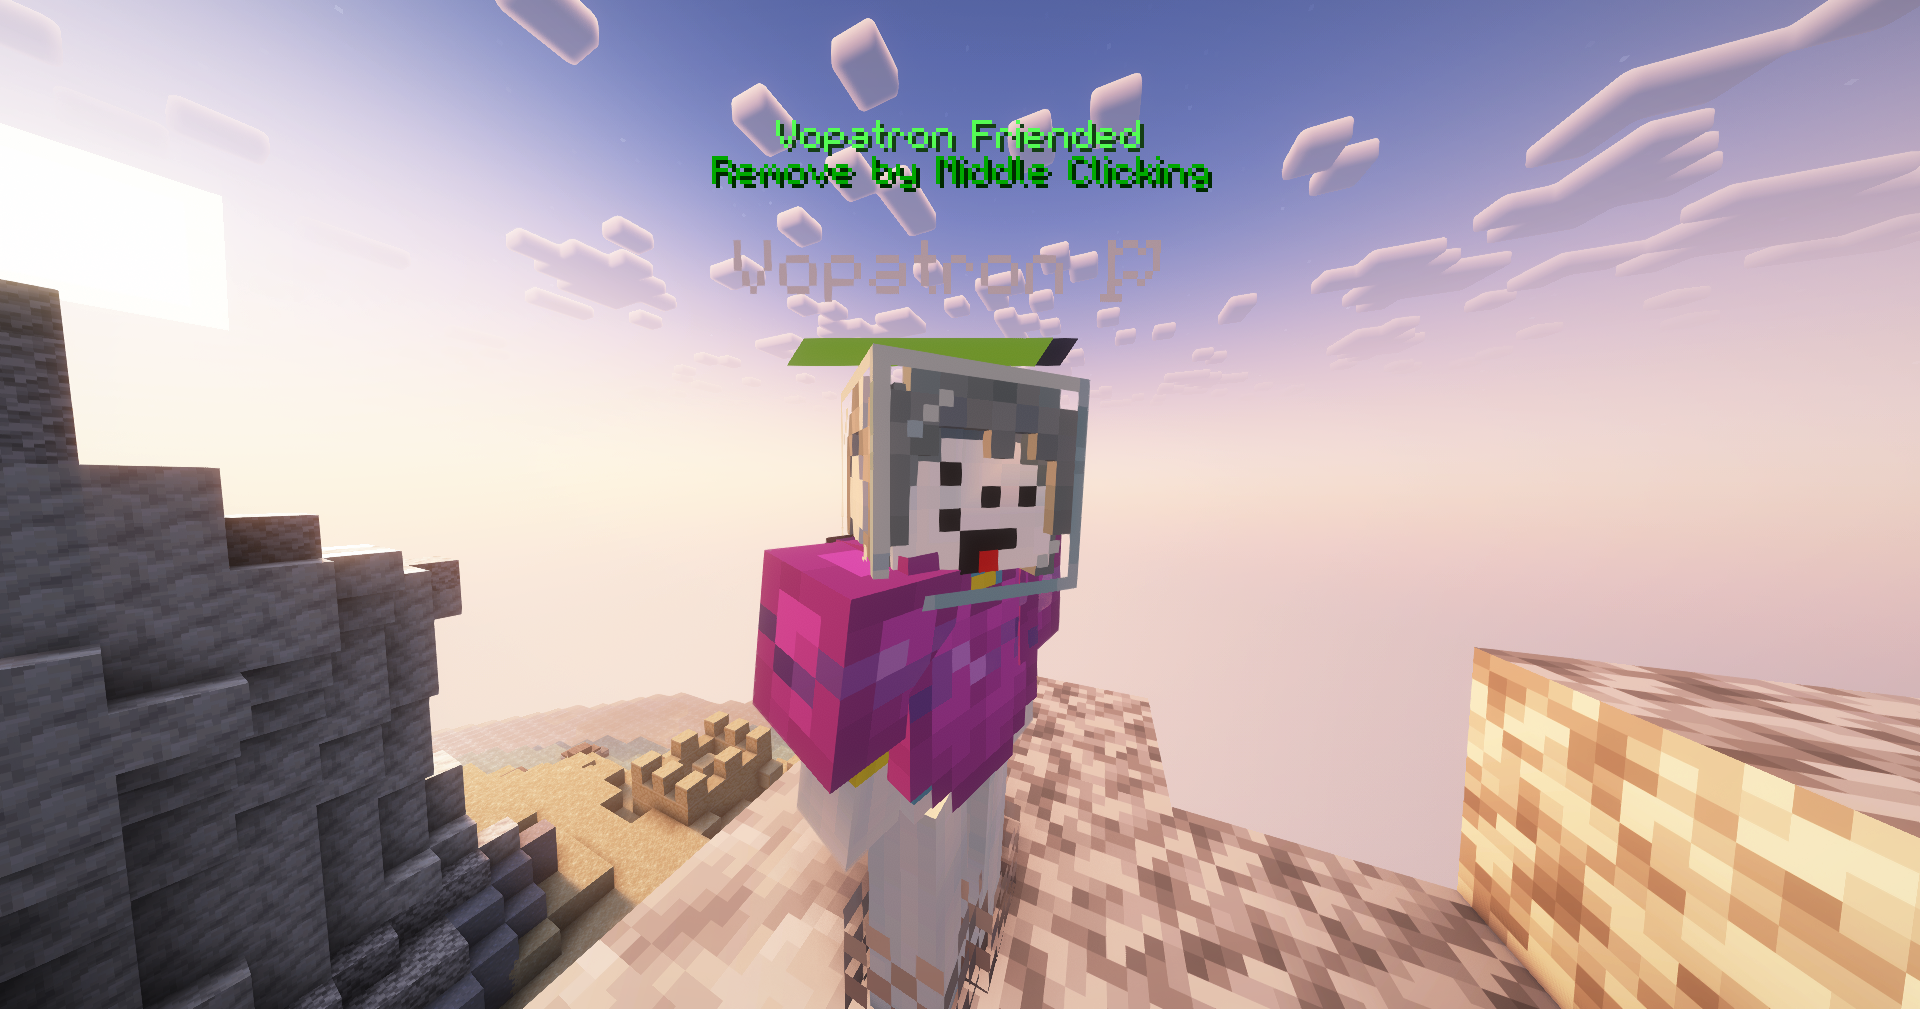
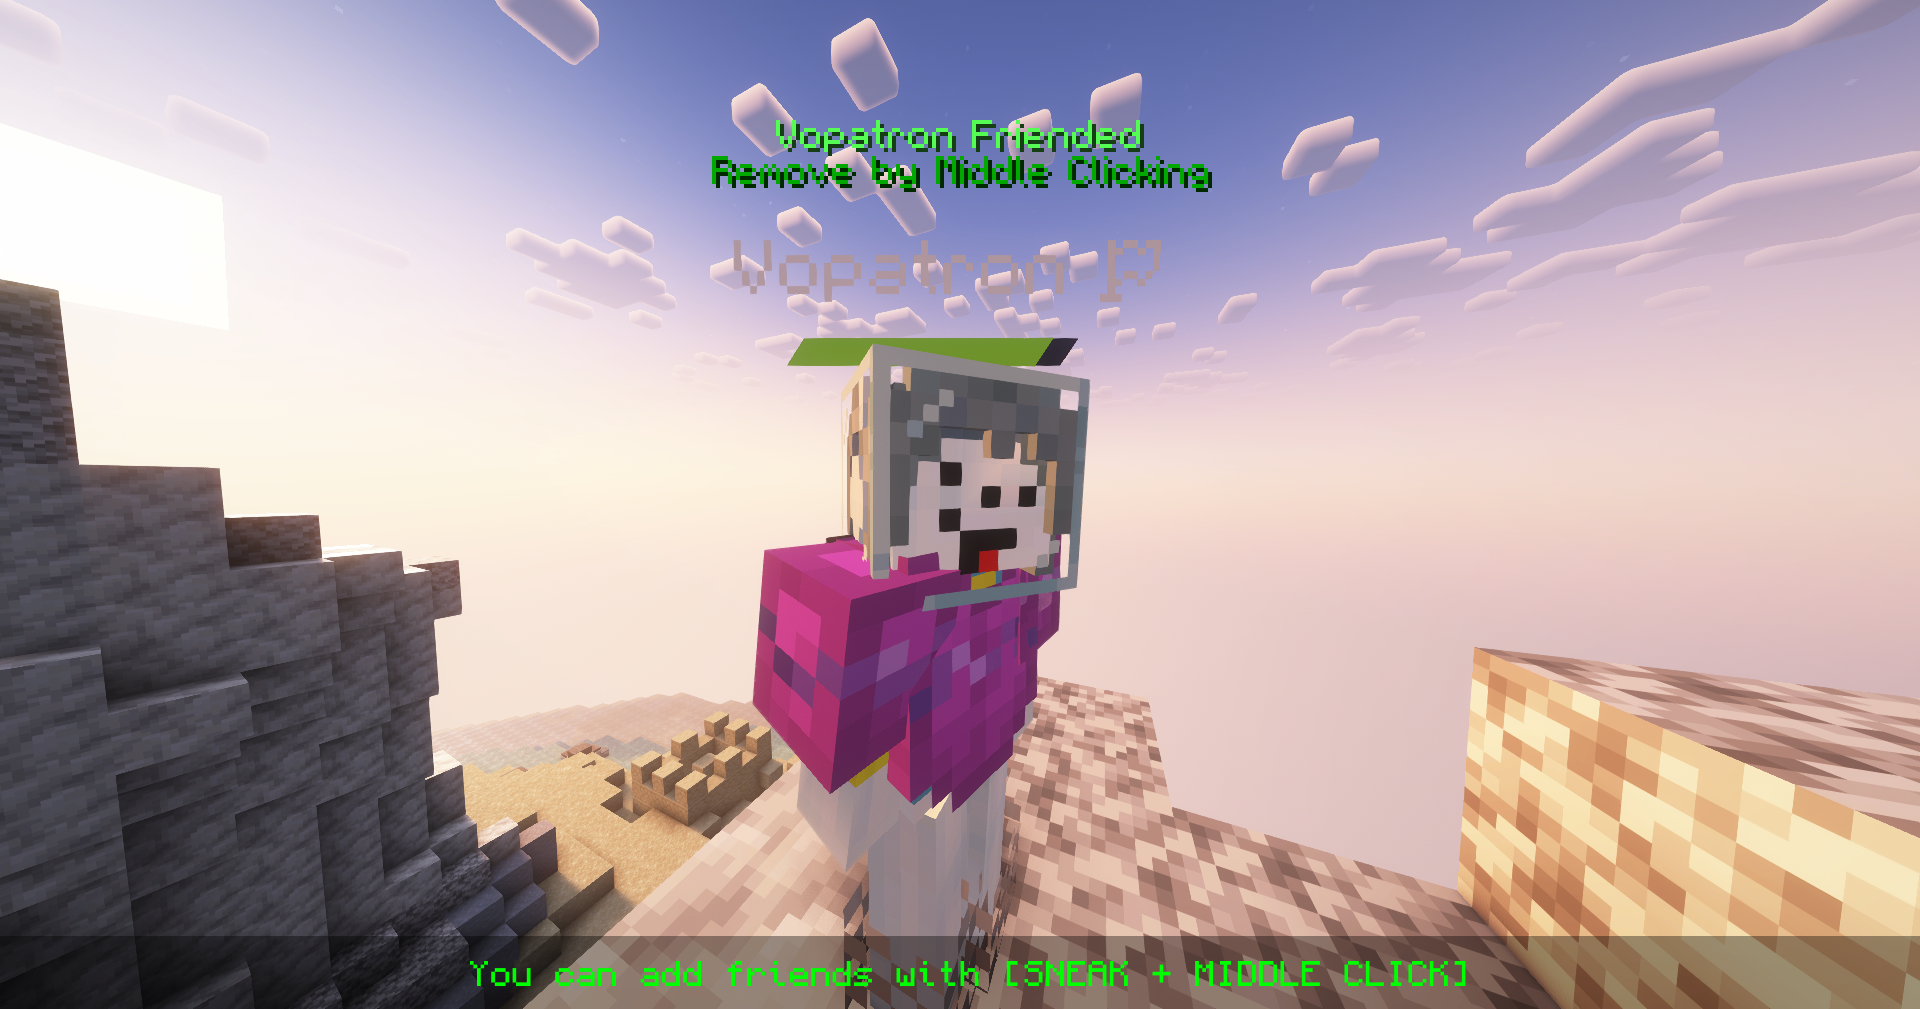
Made game version and friend feature more clear

Changed region(s): [[0.0938, 0.9217, 1.0, 1.0]]

diff --git a/src/Features.tsx b/src/Features.tsx
@@ -5,6 +5,7 @@ import friends from '/feature/friends.png'
 import playerList from '/feature/player-list.png'
 
 import { useMobile } from './utils'
+import type { ReactNode } from 'react'
 
 function Features() {
 
@@ -22,11 +23,12 @@ function Features() {
   )
 }
 
-function Feature({title, description, img} : {title: string, description: string, img: string}) {
+function Feature({title, description, img, children} : {title: string, description: string, img: string, children?: ReactNode}) {
   const mobile = useMobile();
   return <div style={{display:"flex", height:"100vh", justifyContent:"center", alignItems:"center", flexDirection:"column"}}>
     <h1>{title}</h1>
     <h2>{description}</h2>
+    {children}
     <img style={{marginTop:32, width:mobile ? "100vw" : "60vw"}} src={img}/>
   </div>
 }

diff --git a/src/App.tsx b/src/App.tsx
@@ -18,7 +18,7 @@ function App() {
       <div style={{margin:32}}>
         <div style={{display:"flex", flexDirection:"column"}}>
           <a href="https://download.kuphack.cc" className="button cta" style={{margin:40}}>
-              <span><i className="fa-solid fa-download"/> Download</span>
+              <span><i className="fa-solid fa-download"/> Download <small>(1.21.8)</small></span>
           </a>
         </div>
         <div style={{display:"flex", gap:32}}>
